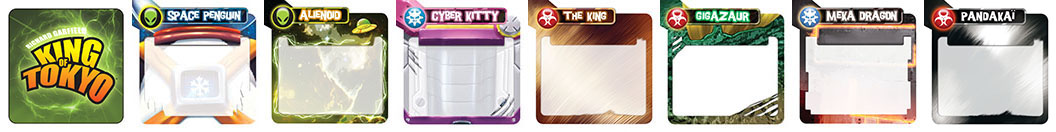
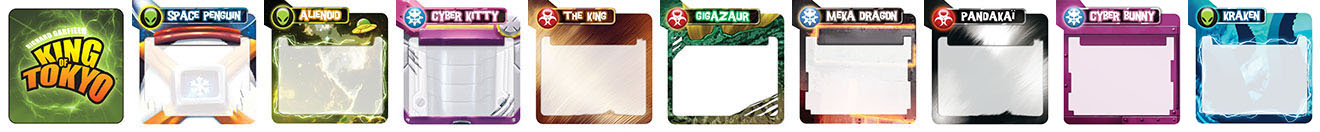
fix total elimination

diff --git a/kingoftokyo.js b/kingoftokyo.js
@@ -940,6 +940,26 @@ var EvolutionCards = /** @class */ (function () {
         this.game = game;
         this.EVOLUTION_CARDS_TYPES = game.gamedatas.EVOLUTION_CARDS_TYPES;
     }
+    EvolutionCards.prototype.debugSeeAllCards = function () {
+        var _this = this;
+        var html = "<div id=\"all-evolution-cards\" class=\"evolution-card-stock player-evolution-cards\">";
+        MONSTERS_WITH_POWER_UP_CARDS.forEach(function (monster) {
+            return html += "<div id=\"all-evolution-cards-" + monster + "\" style=\"display: flex; flex-wrap: nowrap;\"></div>";
+        });
+        html += "</div>";
+        dojo.place(html, 'kot-table', 'before');
+        MONSTERS_WITH_POWER_UP_CARDS.forEach(function (monster) {
+            var evolutionRow = document.getElementById("all-evolution-cards-" + monster);
+            for (var i = 1; i <= 8; i++) {
+                var tempDiv = _this.generateCardDiv({
+                    type: monster * 10 + i
+                });
+                tempDiv.id = "all-evolution-cards-" + monster + "-" + i;
+                evolutionRow.appendChild(tempDiv);
+                _this.game.addTooltipHtml(tempDiv.id, _this.getTooltip(monster * 10 + i));
+            }
+        });
+    };
     EvolutionCards.prototype.setupCards = function (stocks) {
         stocks.forEach(function (stock) {
             var keepcardsurl = g_gamethemeurl + "img/evolution-cards.jpg";
@@ -1110,7 +1130,8 @@ var EvolutionCards = /** @class */ (function () {
             case 53: return /*_TODOPU*/ ("All other Monsters lose 2[Star].");
             case 54: return /*_TODOPU*/ ("Choose a die face. Take all dice with this face and flip them to a (single) face of your choice.");
             case 55: return /*_TODOPU*/ ("If you start your turn in Tokyo, all other Monsters lose 1[Star].");
-            case 56: return /*_TODOPU*/ ("Monsters that wound you lose 1[Star].");
+            case 56:
+            case 158: return /*_TODOPU*/ ("Monsters that wound you lose 1[Star].");
             case 57: return /*_TODOPU*/ ("Once per turn, you can change one of the dice you rolled to [diceSmash].");
             case 58: return /*_TODOPU*/ ("Once per turn, you can change one of the dice you rolled to [dice1] or [dice2]."); // TODOPU check label
             // Meka Dragon
@@ -1141,6 +1162,9 @@ var EvolutionCards = /** @class */ (function () {
             // TODODE 147/148
             // Kraken
             case 151: return "+2[Heart]";
+            case 156: return /*_TODODE*/ ("Gain 1[Heart] each time you take control of Tokyo. You can have up to 12[Heart] as long as you own this card.");
+            case 157: return /*_TODOPU*/ ("Play before rolling dice. If you are not in Tokyo, skip your turn, gain 3[Heart] and 3[Energy].");
+            // 158 same as 56
         }
         return null;
     };
@@ -1276,21 +1300,25 @@ var EvolutionCards = /** @class */ (function () {
         }
         this.game.tableManager.tableHeightChange();
     };
+    EvolutionCards.prototype.generateCardDiv = function (card) {
+        var tempDiv = document.createElement('div');
+        tempDiv.classList.add('stockitem');
+        tempDiv.style.width = CARD_WIDTH + "px";
+        tempDiv.style.height = CARD_WIDTH + "px";
+        tempDiv.style.position = "relative";
+        tempDiv.style.backgroundImage = "url('" + g_gamethemeurl + "img/evolution-cards.jpg')";
+        var imagePosition = MONSTERS_WITH_POWER_UP_CARDS.indexOf(Math.floor(card.type / 10)) + 1;
+        var xBackgroundPercent = imagePosition * 100;
+        tempDiv.style.backgroundPosition = "-" + xBackgroundPercent + "% 0%";
+        document.body.appendChild(tempDiv);
+        this.setDivAsCard(tempDiv, card.type);
+        document.body.removeChild(tempDiv);
+        return tempDiv;
+    };
     EvolutionCards.prototype.getMimickedCardText = function (mimickedCard) {
         var mimickedCardText = '-';
         if (mimickedCard) {
-            var tempDiv = document.createElement('div');
-            tempDiv.classList.add('stockitem');
-            tempDiv.style.width = CARD_WIDTH + "px";
-            tempDiv.style.height = CARD_WIDTH + "px";
-            tempDiv.style.position = "relative";
-            tempDiv.style.backgroundImage = "url('" + g_gamethemeurl + "img/evolution-cards.jpg')";
-            var imagePosition = MONSTERS_WITH_POWER_UP_CARDS.indexOf(Math.floor(mimickedCard.type / 10)) + 1;
-            var xBackgroundPercent = imagePosition * 100;
-            tempDiv.style.backgroundPosition = "-" + xBackgroundPercent + "% 0%";
-            document.body.appendChild(tempDiv);
-            this.setDivAsCard(tempDiv, mimickedCard.type + (mimickedCard.side || 0));
-            document.body.removeChild(tempDiv);
+            var tempDiv = this.generateCardDiv(mimickedCard);
             mimickedCardText = "<br>" + tempDiv.outerHTML;
         }
         return mimickedCardText;
@@ -3423,6 +3451,9 @@ var KingOfTokyo = /** @class */ (function () {
         var oldShowMessage = this.showMessage;
         this.showMessage = function (msg, type) { return oldShowMessage(formatTextIcons(msg), type); };
         log("Ending game setup");
+        if (window.location.host == 'studio.boardgamearena.com' && this.isPowerUpExpansion()) {
+            this.evolutionCards.debugSeeAllCards();
+        }
     };
     ///////////////////////////////////////////////////
     //// Game & client states

diff --git a/src/evolution-cards.ts b/src/evolution-cards.ts
@@ -6,6 +6,27 @@ class EvolutionCards {
     constructor (private game: KingOfTokyoGame) {
         this.EVOLUTION_CARDS_TYPES = (game as any).gamedatas.EVOLUTION_CARDS_TYPES;
     }
+
+    debugSeeAllCards() {
+        let html = `<div id="all-evolution-cards" class="evolution-card-stock player-evolution-cards">`;
+        MONSTERS_WITH_POWER_UP_CARDS.forEach(monster => 
+            html += `<div id="all-evolution-cards-${monster}" style="display: flex; flex-wrap: nowrap;"></div>`
+        );
+        html += `</div>`;
+        dojo.place(html, 'kot-table', 'before');
+
+        MONSTERS_WITH_POWER_UP_CARDS.forEach(monster => {
+            const evolutionRow = document.getElementById(`all-evolution-cards-${monster}`);
+            for (let i = 1; i <= 8; i++) {
+                const tempDiv = this.generateCardDiv({
+                    type: monster * 10 + i
+                } as Card);
+                tempDiv.id = `all-evolution-cards-${monster}-${i}`;
+                evolutionRow.appendChild(tempDiv);
+                (this.game as any).addTooltipHtml(tempDiv.id, this.getTooltip(monster * 10 + i));
+            }
+        })
+    }
     
     public setupCards(stocks: Stock[]) {
 
@@ -179,7 +200,7 @@ class EvolutionCards {
             case 53: return /*_TODOPU*/("All other Monsters lose 2[Star].");
             case 54: return /*_TODOPU*/("Choose a die face. Take all dice with this face and flip them to a (single) face of your choice.");
             case 55: return /*_TODOPU*/("If you start your turn in Tokyo, all other Monsters lose 1[Star].");
-            case 56: return /*_TODOPU*/("Monsters that wound you lose 1[Star].");
+            case 56: case 158: return /*_TODOPU*/("Monsters that wound you lose 1[Star].");
             case 57: return /*_TODOPU*/("Once per turn, you can change one of the dice you rolled to [diceSmash].");
             case 58: return /*_TODOPU*/("Once per turn, you can change one of the dice you rolled to [dice1] or [dice2]."); // TODOPU check label
             // Meka Dragon
@@ -210,6 +231,9 @@ class EvolutionCards {
             // TODODE 147/148
             // Kraken
             case 151: return "+2[Heart]";
+            case 156: return /*_TODODE*/("Gain 1[Heart] each time you take control of Tokyo. You can have up to 12[Heart] as long as you own this card.");
+            case 157: return /*_TODOPU*/("Play before rolling dice. If you are not in Tokyo, skip your turn, gain 3[Heart] and 3[Energy].");
+            // 158 same as 56
         }
         return null;
     }
@@ -381,22 +405,28 @@ class EvolutionCards {
         this.game.tableManager.tableHeightChange();
     }
 
+    public generateCardDiv(card: Card): HTMLDivElement {
+        const tempDiv: HTMLDivElement = document.createElement('div');
+        tempDiv.classList.add('stockitem');
+        tempDiv.style.width = `${CARD_WIDTH}px`;
+        tempDiv.style.height = `${CARD_WIDTH}px`;
+        tempDiv.style.position = `relative`;
+        tempDiv.style.backgroundImage = `url('${g_gamethemeurl}img/evolution-cards.jpg')`;
+        const imagePosition = MONSTERS_WITH_POWER_UP_CARDS.indexOf(Math.floor(card.type / 10)) + 1;
+        const xBackgroundPercent = imagePosition * 100;
+        tempDiv.style.backgroundPosition = `-${xBackgroundPercent}% 0%`;
+
+        document.body.appendChild(tempDiv);
+        this.setDivAsCard(tempDiv, card.type);
+        document.body.removeChild(tempDiv);
+            
+        return tempDiv;
+    }
+
     public getMimickedCardText(mimickedCard: Card): string {
         let mimickedCardText = '-';
         if (mimickedCard) {
-            const tempDiv: HTMLDivElement = document.createElement('div');
-            tempDiv.classList.add('stockitem');
-            tempDiv.style.width = `${CARD_WIDTH}px`;
-            tempDiv.style.height = `${CARD_WIDTH}px`;
-            tempDiv.style.position = `relative`;
-            tempDiv.style.backgroundImage = `url('${g_gamethemeurl}img/evolution-cards.jpg')`;
-            const imagePosition = MONSTERS_WITH_POWER_UP_CARDS.indexOf(Math.floor(mimickedCard.type / 10)) + 1;
-            const xBackgroundPercent = imagePosition * 100;
-            tempDiv.style.backgroundPosition = `-${xBackgroundPercent}% 0%`;
-
-            document.body.appendChild(tempDiv);
-            this.setDivAsCard(tempDiv, mimickedCard.type + (mimickedCard.side || 0));
-            document.body.removeChild(tempDiv);
+            const tempDiv = this.generateCardDiv(mimickedCard);
 
             mimickedCardText = `<br>${tempDiv.outerHTML}`;
         }

diff --git a/kingoftokyo.css b/kingoftokyo.css
@@ -995,6 +995,12 @@
   height: 12px;
   margin-bottom: -2px;
 }
+.player-evolution-cards .stockitem .description-wrapper .token {
+  width: 12px;
+  height: 12px;
+  margin-bottom: -2px;
+  box-shadow: none;
+}
 .player-evolution-cards .stockitem.disabled {
   filter: contrast(0.6);
   cursor: not-allowed;
@@ -1936,6 +1942,12 @@ button .icon, a .icon {
   width: 16px;
   height: 16px;
   margin-bottom: -2px;
+}
+.dijitTooltipContents .token {
+  width: 16px;
+  height: 16px;
+  margin-bottom: -2px;
+  box-shadow: none !important;
 }
 
 .token {

diff --git a/src/kingoftokyo.ts b/src/kingoftokyo.ts
@@ -165,6 +165,10 @@ class KingOfTokyo implements KingOfTokyoGame {
         (this as any).showMessage = (msg, type) => oldShowMessage(formatTextIcons(msg), type);
 
         log( "Ending game setup" );
+
+        if (window.location.host == 'studio.boardgamearena.com' && this.isPowerUpExpansion()) {
+            this.evolutionCards.debugSeeAllCards();
+        }
     }
 
     ///////////////////////////////////////////////////

diff --git a/src/_evolution-cards.scss b/src/_evolution-cards.scss
@@ -62,6 +62,13 @@
                 height: 12px;
                 margin-bottom: -2px;
             }
+
+            .token {
+                width: 12px;
+                height: 12px;
+                margin-bottom: -2px;
+                box-shadow: none;
+            }
         }
         
         &.disabled {

diff --git a/src/kingoftokyo.scss b/src/kingoftokyo.scss
@@ -297,6 +297,13 @@ button, a {
     height: 16px;
     margin-bottom: -2px;
   }
+
+  .token {
+    width: 16px;
+    height: 16px;
+    margin-bottom: -2px;
+    box-shadow: none !important;
+  }
 }
   
 

diff --git a/modules/php/utils.php b/modules/php/utils.php
@@ -80,7 +80,7 @@ trait UtilTrait {
     }
 
     function isPowerUpExpansion() {
-        return $this->getBgaEnvironment() == 'studio' || intval($this->getGameStateValue(POWERUP_EXPANSION_OPTION)) >= 2;
+        return /*$this->getBgaEnvironment() == 'studio' ||*/ intval($this->getGameStateValue(POWERUP_EXPANSION_OPTION)) >= 2;
     }
 
     function isPowerUpMutantEvolution() {
@@ -222,9 +222,14 @@ trait UtilTrait {
         if ($this->isWickednessExpansion() && $this->gotWickednessTile($playerId, FULL_REGENERATION_WICKEDNESS_TILE)) {
             $add += 2;
         }
+        
         $add += 2 * $this->countCardOfType($playerId, EVEN_BIGGER_CARD);
+
         if ($this->isZombified($playerId)) {
             $add += 2;
+        }
+        if ($this->isPowerUpExpansion()) {
+            $add += 2 * $this->countEvolutionOfType($playerId, KRAKEN_6_EVOLUTION);
         }
 
         if ($this->isAnubisExpansion() && $this->getCurseCardType() == BOW_BEFORE_RA_CURSE_CARD) {
@@ -319,6 +324,10 @@ trait UtilTrait {
             $countIAmTheKing = $this->countEvolutionOfType($playerId, I_AM_THE_KING_EVOLUTION);
             if ($countIAmTheKing) {
                 $this->applyGetPoints($playerId, $countIAmTheKing, 3000 + I_AM_THE_KING_EVOLUTION);
+            }
+            $countKRAKEN_6_EVOLUTION = $this->countEvolutionOfType($playerId, KRAKEN_6_EVOLUTION);
+            if ($countKRAKEN_6_EVOLUTION) {
+                $this->applyGetHealth($playerId, $countKRAKEN_6_EVOLUTION, 3000 + KRAKEN_6_EVOLUTION, $playerId);
             }
         }
     }
@@ -523,7 +532,16 @@ trait UtilTrait {
         } else {
             $scoreAux = intval($this->getGameStateValue(KILL_PLAYERS_SCORE_AUX)); 
             $this->DbQuery("UPDATE player SET `player_health` = 0, `player_score` = 0, `player_score_aux` = $scoreAux, player_location = 0 where `player_id` = $player->id");
-            $this->eliminatePlayer($player->id); // no need for notif, framework does it
+            if ($this->getRemainingPlayers() > 1) {
+                $this->eliminatePlayer($player->id); // no need for notif, framework does it
+            } else {
+                // if last player, we make a notification same as elimination
+                // but we don't really eliminate him as the framework don't like it and game will end anyway
+                $this->notifyAllPlayers('playerEliminated', '', [
+                    'who_quits' => $player->id,
+                    'player_name' => $this->getPlayerName($player->id),
+                ]);
+            }
         }
 
         $cards = $this->getCardsFromDb($this->cards->getCardsInLocation('hand', $player->id));
@@ -710,6 +728,10 @@ trait UtilTrait {
             $countHeatVision = $this->countEvolutionOfType($playerId, HEAT_VISION_EVOLUTION);
             if ($countHeatVision > 0) {
                 $this->applyLosePoints($damageDealerId, $countHeatVision, 3000 + HEAT_VISION_EVOLUTION);
+            }
+            $countKRAKEN_8_EVOLUTION = $this->countEvolutionOfType($playerId, KRAKEN_8_EVOLUTION);
+            if ($countKRAKEN_8_EVOLUTION > 0) {
+                $this->applyLosePoints($damageDealerId, $countKRAKEN_8_EVOLUTION, 3000 + KRAKEN_8_EVOLUTION);
             }
             $alphaMaleEvolutions = $this->getEvolutionsOfType($damageDealerId, ALPHA_MALE_EVOLUTION);
             if (count($alphaMaleEvolutions) > 0 && !$this->isUsedCard(3000 + $alphaMaleEvolutions[0]->id)) {

diff --git a/modules/php/evolution-cards/evolution-cards-utils.php b/modules/php/evolution-cards/evolution-cards-utils.php
@@ -141,6 +141,7 @@ trait EvolutionCardsUtilTrait {
             case JUNGLE_FRENZY_EVOLUTION: // TODOPU use only after move to Tokyo if you didn't enter
                 return $playerId == intval($this->getActivePlayerId()) && !$this->inTokyo($playerId) && $this->isDamageDealtThisTurn($playerId);
             case TUNE_UP_EVOLUTION:
+            case KRAKEN_7_EVOLUTION:
                 return !$this->inTokyo($playerId);
             case BLIZZARD_EVOLUTION:
                 if ($playerId != intval($this->getActivePlayerId())) {
@@ -323,6 +324,12 @@ trait EvolutionCardsUtilTrait {
             case KRAKEN_1_EVOLUTION:
                 $this->applyGetHealth($playerId, 2, $logCardType, $playerId);
                 break;
+            case KRAKEN_7_EVOLUTION:
+                $this->applyGetHealth($playerId, 3, $logCardType, $playerId);
+                $this->applyGetEnergy($playerId, 3, $logCardType);
+                $this->removeCard($playerId, $card, false, 5000);
+                $this->goToState(ST_NEXT_PLAYER);
+                break;
             // Baby Gigazaur
         }
     }
@@ -381,12 +388,12 @@ trait EvolutionCardsUtilTrait {
     }
 
     function removeEvolution(int $playerId, $card, bool $silent = false, int $delay = 0, bool $ignoreMimicToken = false) {
-        $changeMaxHealth = $card->type == EVEN_BIGGER_CARD; // TODOPU
+        $changeMaxHealth = $card->type == KRAKEN_6_EVOLUTION;
 
         $countMothershipSupportBefore = $this->countEvolutionOfType($playerId, MOTHERSHIP_SUPPORT_EVOLUTION);
         
         if ($card->type == ICY_REFLECTION_EVOLUTION) { // Mimic
-            $changeMaxHealth = false;// TODOPU $this->getMimickedEvolutionType() == EATER_OF_SOULS_EVOLUTION;
+            $changeMaxHealth = $this->getMimickedEvolutionType() == KRAKEN_6_EVOLUTION;
             $this->removeMimicEvolutionToken($playerId);
         } else if ($card->id == $this->getMimickedEvolutionId() && !$ignoreMimicToken) {
             $this->removeMimicEvolutionToken($playerId);

diff --git a/modules/php/debug-util.php b/modules/php/debug-util.php
@@ -15,11 +15,11 @@ trait DebugUtilTrait {
 
         // base game
 
-        $this->debugSetPlayerInLocation(2343492, 1);
+        $this->debugSetPlayerInLocation(2343494, 1);
         //$this->debugSetPlayerInLocation(2343494, 2);
-        $this->debugSetEnergy(5);
+        $this->debugSetEnergy(8);
         //$this->debugSetPoints(5);
-        //$this->debugSetHealth(5);
+        $this->debugSetHealth(1);
         //$this->debugSetPlayerHealth(2343492, 1);
         //$this->debugSetPlayerHealth(2343493, 1);
         //$this->debugSetPlayerEnergy(2343493, 4);
@@ -28,7 +28,7 @@ trait DebugUtilTrait {
         //$this->DbQuery("UPDATE player SET `player_poison_tokens` = 1");
         //$this->debugSetCardInTable(FRENZY_CARD);
         //$this->debugSetCardInTable(HEAL_CARD);
-        //$this->debugSetCardInTable(HIGH_ALTITUDE_BOMBING_CARD);
+        $this->debugSetCardInTable(HIGH_ALTITUDE_BOMBING_CARD);
         //$this->debugSetCardInTable(ENERGIZE_CARD);
         //$this->debugSetCardInTable(JET_FIGHTERS_CARD);
         //$this->debugSetCardInTable(SMOKE_CLOUD_CARD);

diff --git a/modules/constants.inc.php b/modules/constants.inc.php
@@ -400,6 +400,7 @@ define('KRAKEN_5_EVOLUTION', 155);
 define('KRAKEN_6_EVOLUTION', 156);
 define('KRAKEN_7_EVOLUTION', 157);
 define('KRAKEN_8_EVOLUTION', 158);
+// evolutions : Baby Gigazaur
 
 }
 ?>
